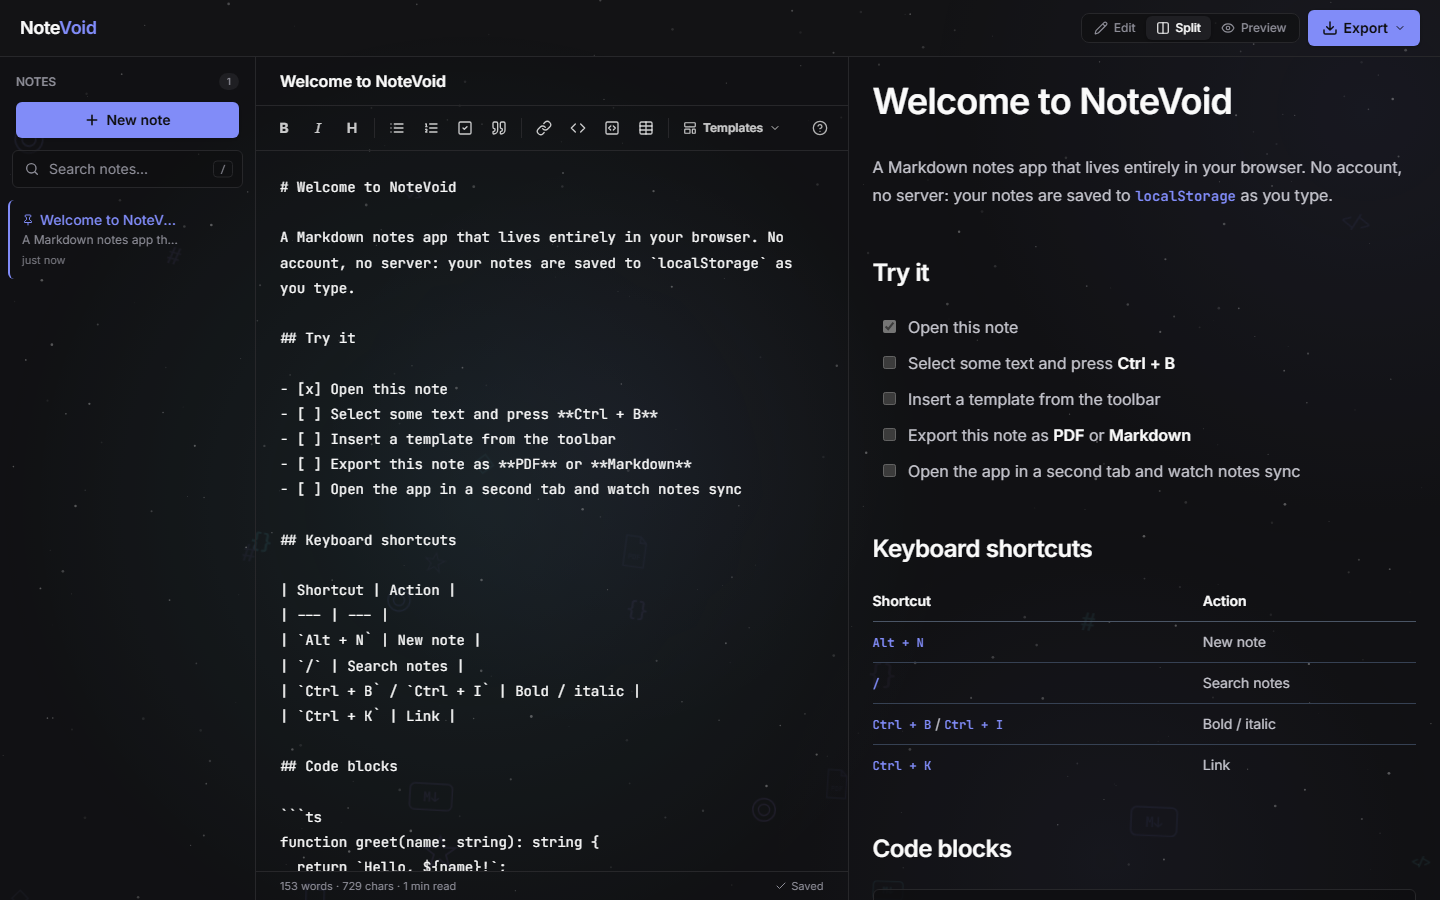
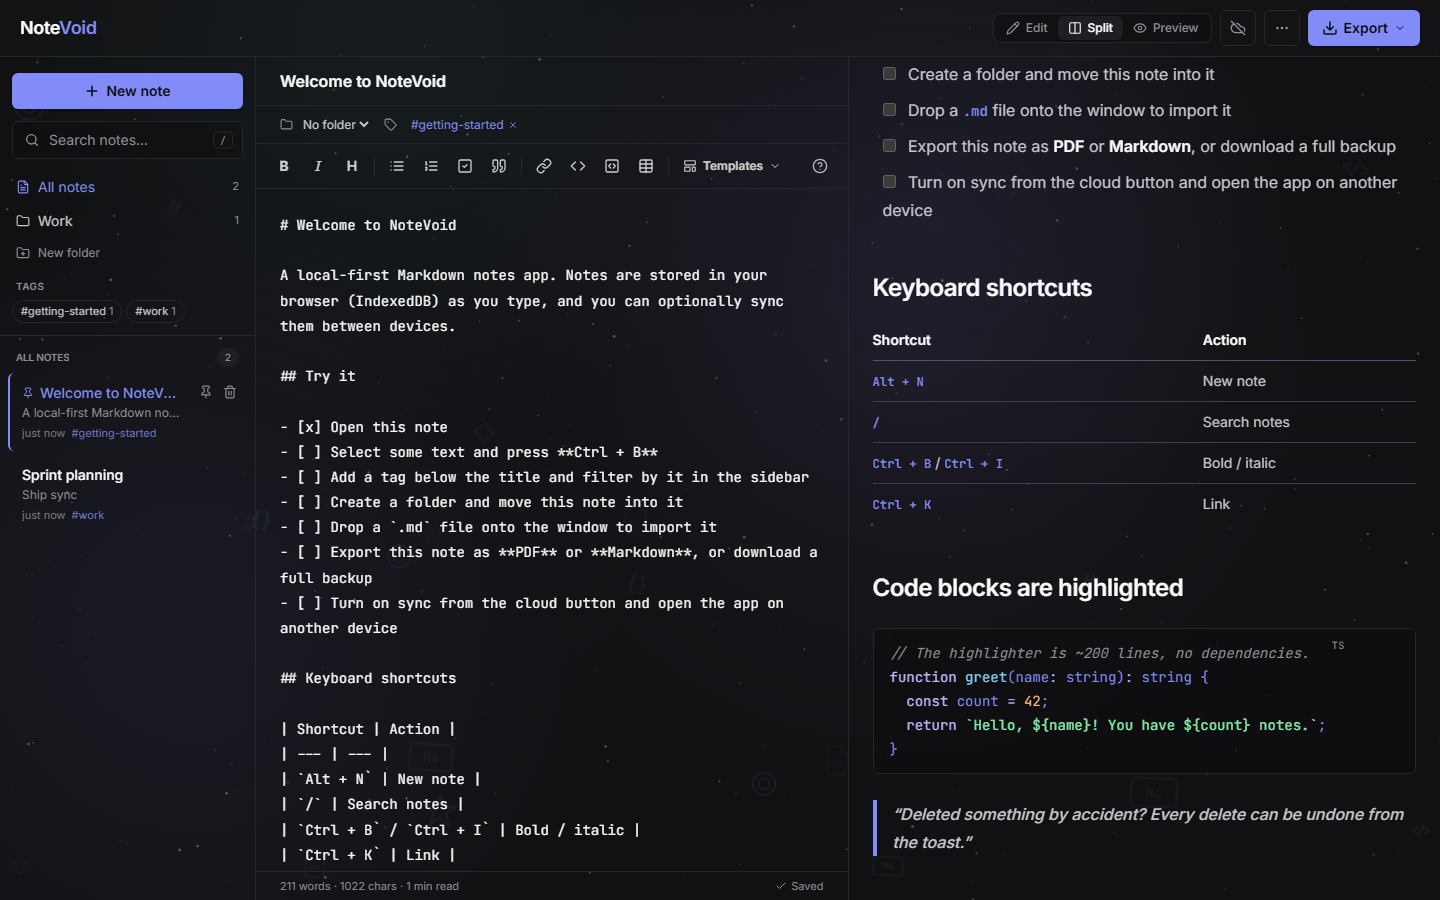
docs: document storage, sync design and new features in README
- Explain IndexedDB incremental writes, the unload journal, the merge and
  tombstone rules, and the sync key model, with an architecture diagram
- Document SYNC_DATA_DIR / SYNC_DISABLED and refresh the screenshot

diff --git a/README.md b/README.md
@@ -1,10 +1,12 @@
 # NoteVoid
 
-A local-first Markdown notes app with a live preview, PDF/Markdown export and
-a calm galaxy background. Notes never leave the browser: no account, no server.
+A local-first Markdown notes app: live preview, folders and tags, syntax
+highlighting, import/export, and optional sync between devices. Notes live in
+the browser (IndexedDB); the sync server is opt-in.
 
-Built with **Next.js 16** (App Router), **React 19**, **TypeScript** (strict)
-and **Tailwind CSS 4**.
+Built with **Next.js 16** (App Router + Route Handlers), **React 19**,
+**TypeScript** (strict) and **Tailwind CSS 4**. No UI or state libraries:
+only `react-markdown`, `remark-gfm` and `html2pdf.js` at runtime.
 
 ![NoteVoid on desktop](docs/screenshot.png)
 
@@ -19,82 +21,118 @@ and **Tailwind CSS 4**.
 
 ## Features
 
-- **Live GFM preview**: tables, task lists, strikethrough. Edit, split or
-  preview-only view modes.
-- **Formatting toolbar and shortcuts**: bold, italic, headings, lists,
-  checkboxes, quotes, links, code, tables. Native **Ctrl + Z** keeps working
-  after toolbar actions.
-- **Smart lists**: Enter continues a bullet, numbered or task list and ends it
-  on an empty item.
-- **Pinning, search and undo**: pinned notes stay on top, search covers titles
-  and content, and every delete can be undone from a toast.
-- **Autosave with status**: debounced writes to `localStorage`, with a visible
-  "Saving… / Saved / Not saved" state.
-- **Cross-tab sync**: open the app in two tabs and edits show up in both.
-- **Export** the active note as a light-themed **PDF** or a **.md** file.
-- **Templates**: meeting notes, to-do list, daily journal, code snippet.
-- **Responsive**: on phones the notes list becomes a drawer.
-- **Accessible**: semantic list and buttons, labelled controls, visible focus
-  rings, keyboard-reachable actions, WCAG AA text contrast, and
-  `prefers-reduced-motion` support.
+**Writing**
+- Live GFM preview (tables, task lists, strikethrough) with edit, split and
+  preview-only modes.
+- **Syntax highlighting** for TypeScript/JavaScript, JSON, CSS, HTML, bash and
+  Python, using an in-house tokenizer with no dependencies. Code blocks show
+  their language and have a Copy button.
+- Formatting toolbar and shortcuts. Native **Ctrl + Z** keeps working after
+  toolbar actions. Enter continues or ends lists.
+- Templates, a Markdown cheatsheet, and word count with reading time.
+
+**Organizing**
+- **Folders**: create, rename and delete them (deleting a folder keeps its
+  notes) and filter the list by folder.
+- **Tags**: chip input with suggestions; filter by tag; search also matches
+  tags.
+- Pinning, full-text search, and undo for every delete.
+
+**Data**
+- **IndexedDB storage** with one record per note, debounced incremental
+  writes, a visible save status, and cross-tab updates via `BroadcastChannel`.
+- **Import** `.md`/`.txt` files from the menu or by dropping them onto the
+  window.
+- **Backup**: download every note and folder as JSON, and restore it later,
+  including notes deleted since the backup.
+- **Export** a note as a PDF or a `.md` file.
+- **Sync** (optional): turn it on, copy the sync key, paste it on another
+  device. Changes merge in both directions.
+
+**Quality**
+- Responsive layout (the notes list is a drawer on phones). Semantic markup,
+  labelled controls, focus rings, WCAG AA contrast, `prefers-reduced-motion`.
 
 ### Keyboard shortcuts
 
 | Shortcut | Action |
 | --- | --- |
-| `Alt + N` | New note |
+| `Alt + N` | New note (in the current folder) |
 | `/` | Focus search |
 | `Ctrl/Cmd + B`, `I`, `K` | Bold, italic, link |
 | `Enter` in a list | Continue or end the list |
-| `Esc` | Close menus, clear search, close the drawer |
+| `Esc` | Close menus and dialogs, clear search, close the drawer |
 
 ---
 
 ## Architecture
 
 ```
-UI components ──► useNotes() ──► notesStore ──► notesReducer (pure)
-                     │               │
-         useSyncExternalStore        └──► storage.ts ──► localStorage
+                 ┌──────────── browser ─────────────────────────────┐
+ UI components ──► useNotes ──► notesStore ──► notesReducer (pure)  │
+                 │                 │  ▲                            │
+                 │                 │  └── BroadcastChannel (tabs)  │
+                 │                 ▼                               │
+                 │          NotesPersistence ── IndexedDB          │
+                 │          (localStorage fallback)                │
+                 │                                                 │
+                 │  useSync ──► syncClient ── POST /api/sync ──────┼──► Route Handler
+                 └─────────────────────────────────────────────────┘     └► mergeData ► SyncRepository
 ```
 
 | Layer | File | Responsibility |
 | --- | --- | --- |
-| Reducer | [`app/lib/notes/reducer.ts`](app/lib/notes/reducer.ts) | Pure state transitions: create, update, delete/undo, pin, select, sort, filter |
-| Storage | [`app/lib/notes/storage.ts`](app/lib/notes/storage.ts) | Versioned schema, validation of untrusted data, migration from the legacy format |
-| Store | [`app/lib/notes/store.ts`](app/lib/notes/store.ts) | Holds state, debounces persistence, reports save status, applies cross-tab changes |
-| Hook | [`app/hooks/useNotes.ts`](app/hooks/useNotes.ts) | Connects React to the store via `useSyncExternalStore` |
-| Editor logic | [`app/lib/markdownActions.ts`](app/lib/markdownActions.ts) | Pure text transforms (`wrap`, `prefix`, `insert`, `continueList`) |
+| Model | [`app/types/note.ts`](app/types/note.ts) | `Note`, `Folder`, `Tombstones`, `NotesData` |
+| Reducer | [`app/lib/notes/reducer.ts`](app/lib/notes/reducer.ts) | Pure transitions: notes, folders, tags, delete/undo, merge |
+| Merge | [`app/lib/notes/merge.ts`](app/lib/notes/merge.ts) | Last-write-wins merge with tombstones, shared by client and server |
+| Validation | [`app/lib/notes/storage.ts`](app/lib/notes/storage.ts) | Parses untrusted data (storage, backups, the API); reads legacy formats |
+| Persistence | [`idb.ts`](app/lib/notes/idb.ts), [`persistence.ts`](app/lib/notes/persistence.ts) | IndexedDB with incremental writes, an unload journal and migration; localStorage and in-memory implementations |
+| Store | [`app/lib/notes/store.ts`](app/lib/notes/store.ts) | Async hydration, dirty tracking, debounced saves, save status, cross-tab reloads |
+| Sync | [`app/lib/sync/`](app/lib/sync/) | Client (debounce, no overlapping requests, offline and error states), server handler, file repository |
+| API | [`app/api/sync/route.ts`](app/api/sync/route.ts) | Size limits and validation, then the shared handler |
+| Highlighter | [`app/lib/highlight.ts`](app/lib/highlight.ts) | Sticky-regex tokenizer that returns tokens rendered as React spans |
 
 ### Design decisions
 
-- **`useSyncExternalStore` instead of `useEffect` + `setState`.** `localStorage`
-  is an external store. Reading it through a server snapshot and a client
-  snapshot avoids hydration mismatches and the cascading render that loading
-  data in an effect causes.
-- **The logic has no React and no DOM.** The reducer, storage parser and
-  Markdown transforms take plain values and return plain values, so they are
-  unit-tested without a browser. The store gets its storage, clock, ID
-  generator and timers injected, which makes debounce behaviour testable
-  without real waiting.
-- **Debounced, fail-safe persistence.** Typing no longer serializes every note
-  on every keystroke. Pending writes are flushed on `pagehide` and when the tab
-  is hidden. A full or blocked storage shows an error state instead of crashing.
-- **Stored data is untrusted.** Every stored note is validated and normalized;
-  corrupt JSON or malformed entries are dropped instead of breaking the app.
-  The payload is versioned (`{ version: 1, notes, activeId }`), and the earlier
-  bare-array format is still read.
-- **Native undo.** Toolbar edits go through `execCommand("insertText")` and
-  replace only the changed range, so the browser's undo stack survives. If the
-  browser refuses, the edit falls back to a state update.
-- **Rendering cost.** The preview uses `useDeferredValue`, so long notes do not
-  slow typing. The PDF copy of a note is mounted only while an export runs
-  (before, a second Markdown tree re-rendered on every keystroke).
-  `html2pdf.js` is loaded with a dynamic `import()`, only on export.
-- **The background stays cheap.** The canvas scales for HiDPI, caps at 30 fps,
-  pauses in hidden tabs and draws a static frame when reduced motion is
-  preferred. The floating shapes use a seeded PRNG, so server and client
-  render the same markup.
+- **`useSyncExternalStore` instead of `useEffect` + `setState`.** Storage is
+  an external system. A server snapshot plus a client snapshot avoids
+  hydration mismatches and cascading renders.
+- **The logic has no React and no DOM.** The reducer, merge, validation,
+  highlighter, import parsing and the sync handler are plain functions. The
+  store and the sync client get their persistence, clock, ID generator, timers
+  and `fetch` injected. That is why 92 unit tests run in about 3 seconds with no
+  browser.
+- **IndexedDB with incremental writes.** The store diffs note references
+  between states, collects the changed IDs, and writes only those records plus
+  a small metadata record, so typing in one note does not re-serialize the
+  whole collection. Writes are debounced and serialized. Data stored by earlier
+  builds in localStorage migrates once.
+- **No lost edits on close.** An IndexedDB transaction started in `pagehide`
+  may not finish, so the pending change is also written synchronously to a
+  small localStorage journal, which is replayed on the next load.
+- **Sync as a commutative merge.** Every entity has an `updatedAt`, and
+  deletions leave tombstones. `mergeData` keeps the newest version, drops
+  anything deleted after its last edit, and moves notes out of deleted
+  folders. Because the merge is commutative and idempotent, the server and
+  every device converge whatever the order of requests. Undo and restoring a
+  backup bump `updatedAt`, so a restored note wins over its tombstone
+  everywhere.
+- **Sync without accounts.** The sync key is a random 144-bit bearer secret.
+  The server stores data under its SHA-256 hash and never stores the key.
+  Read-merge-write is serialized per space, so concurrent devices don't lose
+  writes. Storage sits behind a two-method `SyncRepository` interface; the
+  JSON-file implementation (atomic temp-file + rename) is fine for a single
+  server, and a Postgres implementation would be one file.
+- **Data from outside is untrusted.** Storage, backups and API bodies all go
+  through the same validators. Malformed entries are dropped, and payloads and
+  files are size-limited.
+- **Native undo.** Toolbar edits use `execCommand("insertText")` on the
+  changed range, so the browser undo stack survives. If the browser refuses,
+  the edit falls back to a state update.
+- **Rendering cost.** The preview uses `useDeferredValue`, highlighting is
+  memoised per block and skipped for huge blocks, merges keep object identity
+  for unchanged notes (memoised rows don't re-render), and the PDF tree and
+  `html2pdf.js` load only during export.
 
 ---
 
@@ -109,6 +147,18 @@ npm run dev
 
 Open [http://localhost:3000](http://localhost:3000).
 
+### Sync server configuration
+
+The sync API runs inside the Next.js server, so no separate service is needed.
+
+| Variable | Default | Description |
+| --- | --- | --- |
+| `SYNC_DATA_DIR` | `.data/sync` | Where sync spaces are stored (one JSON file each) |
+| `SYNC_DISABLED` | unset | Set to `true` to turn the endpoint off |
+
+On serverless hosts with a read-only file system, implement `SyncRepository`
+for a database.
+
 ## Scripts
 
 | Command | Description |
@@ -117,22 +167,24 @@ Open [http://localhost:3000](http://localhost:3000).
 | `npm run build` / `npm start` | Production build and server |
 | `npm run lint` | ESLint (Next.js core-web-vitals + TypeScript rules) |
 | `npm run typecheck` | `tsc --noEmit` |
-| `npm run test:unit` | Unit tests for the pure logic in `app/lib` |
+| `npm run test:unit` | Unit tests for `app/lib` |
 | `npm run test:e2e` | Playwright end-to-end tests |
 | `npm test` | Unit tests, then end-to-end tests |
-| `npm run check` | Lint, typecheck and unit tests (quick pre-push check) |
+| `npm run check` | Lint, typecheck and unit tests |
 
 ## Testing
 
-- **Unit tests** (`app/**/*.test.ts`, 57 tests) cover the reducer, storage
-  parsing and migration, the store (debounce, flush, quota errors, cross-tab
-  sync), the Markdown transforms and the text helpers. They run on the
-  Playwright test runner without a browser, so the project needs only one test
-  runner.
-- **End-to-end tests** (`e2e/`, 24 tests) cover note CRUD, undo, pinning,
-  search, persistence, cross-tab sync, the toolbar, native undo, list
-  continuation, view modes, shortcuts, PDF and Markdown export, and the mobile
-  drawer.
+- **Unit tests** (`app/**/*.test.ts`, 92 tests) cover the reducer, merge
+  properties (commutative, idempotent, tombstones), validation and migration,
+  the store (incremental and debounced writes, failures, cross-tab reloads,
+  unload journal), the highlighter, import/backup parsing, the sync server
+  (validation, merging, concurrent writes) and the sync client (two devices
+  converging through the handler, debounce, errors). They run on the
+  Playwright runner without a browser.
+- **End-to-end tests** (`e2e/`, 33 tests) cover the whole app, including
+  folders, tags, highlighting, IndexedDB storage, migration from
+  localStorage, Markdown import, backup and restore, and **two browser
+  contexts syncing through the real API route**.
 
 ```bash
 npx playwright install chromium   # first run only
@@ -143,30 +195,33 @@ npm test
 
 [GitHub Actions](.github/workflows/ci.yml) runs lint, typecheck, unit tests
 and the production build, then runs the end-to-end suite against
-`next start`. The Playwright report is uploaded when a run fails.
+`next start`.
 
 ## Project structure
 
 ```
 app/
+  api/sync/      Sync Route Handler
   components/
-    editor/      Editor, Toolbar, StatusBar, Preview, Markdown, ExportMenu,
-                 ViewModeToggle, MarkdownCheatsheet
-    sidebar/     Sidebar, NoteItem, SearchBar
-    ui/          Button, Icon, Toast, GalaxyBackground, FloatingElements
-  hooks/         useNotes, useDismiss, useMediaQuery
+    editor/      Editor, Toolbar, NoteMeta, StatusBar, Preview, Markdown,
+                 CodeBlock, ExportMenu, ViewModeToggle, MarkdownCheatsheet
+    sidebar/     Sidebar, LibraryNav, NoteItem, SearchBar
+    sync/        SyncButton, SyncDialog
+    ui/          Button, Icon, Modal, Toast, GalaxyBackground, FloatingElements
+    AppMenu, DropOverlay
+  hooks/         useNotes, useSync, useImport, useDismiss, useMediaQuery
   lib/
-    notes/       reducer, storage, store, welcome note (+ tests)
-    markdownActions, textarea, text, templates, download, cn (+ tests)
-  types/         Note
-  page.tsx       App shell: layout, shortcuts, toasts
+    notes/       reducer, merge, storage, persistence, idb, store, welcome
+    sync/        protocol, client, server, fileRepository
+    highlight, importExport, markdownActions, textarea, text, templates
+  types/         Note, Folder, NotesData
 e2e/             Playwright end-to-end tests
 ```
 
 ## Possible next steps
 
-- Syntax highlighting in code blocks (`rehype-highlight`)
-- Tags and folders
-- Import of `.md` files and a JSON backup
-- IndexedDB storage for large note collections
-- Optional sync backend
+- A Postgres `SyncRepository` and real accounts instead of sync keys
+- Pruning old tombstones
+- Field-level merge, so two devices editing different fields of a note
+  don't overwrite each other
+- Drag and drop of notes between folders
